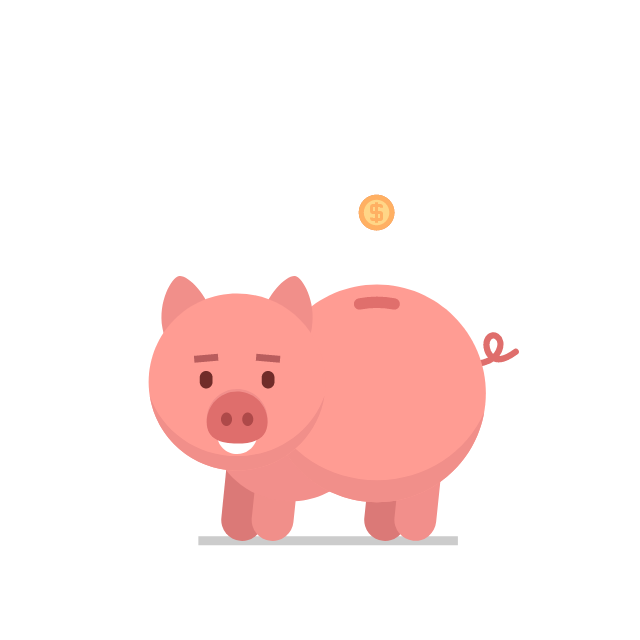
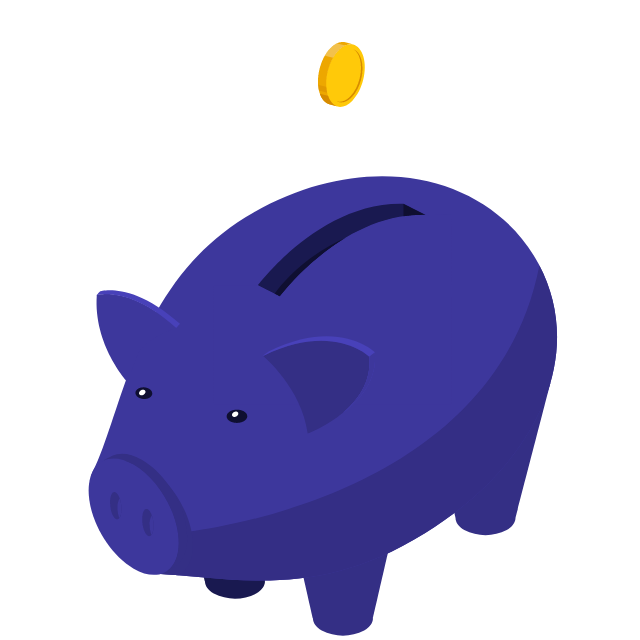
Web: chanchito 3D (LottieFiles, isometrico, moneda cayendo) en lugar del plano

diff --git a/style.css b/style.css
@@ -322,7 +322,7 @@ table.data-table td { padding: 8px; border-top: 1px solid var(--border); }
 .ch-stage::before { content: ""; position: absolute; inset: 14px; border-radius: 50%; background: radial-gradient(circle at 50% 40%, #2c2612 0%, #1b1b27 70%); box-shadow: 0 0 40px rgba(243,186,47,0.12) inset; }
 .ch-anillo { position: absolute; inset: 0; width: 100%; height: 100%; filter: drop-shadow(0 0 6px rgba(243,186,47,0.55)); }
 #chAnillo { transition: stroke-dashoffset 1.6s cubic-bezier(.2,.8,.2,1); }
-.ch-lottie { position: relative; width: 82%; height: 82%; }
+.ch-lottie { position: relative; width: 86%; height: 86%; filter: drop-shadow(0 10px 14px rgba(0,0,0,0.45)); }
 .chanchito-info { flex: 1; min-width: 220px; }
 .chanchito-btc { font-size: 28px; font-weight: 800; color: var(--accent); letter-spacing: -0.3px; font-variant-numeric: tabular-nums; }
 .chanchito-btc .u { font-size: 14px; color: var(--text-dim); font-weight: 600; }

diff --git a/app.js b/app.js
@@ -440,7 +440,7 @@ function renderChanchito(c) {
   el.style.display = 'block';
   if (!el.dataset.built) {
     el.innerHTML = chanchitoBuildHtml(); el.dataset.built = '1';
-    // Animación Lottie (cerdito con moneda cayendo, LottieFiles / Vladislav Sholohov, Lottie Simple License).
+    // Animación Lottie (chanchito 3D con moneda cayendo, LottieFiles "Piggy Bank" 3D, Bas van Breugel, Lottie Simple License).
     const iniciar = () => {
       if (!window.lottie) return false;
       $('chLottie').innerHTML = '';
